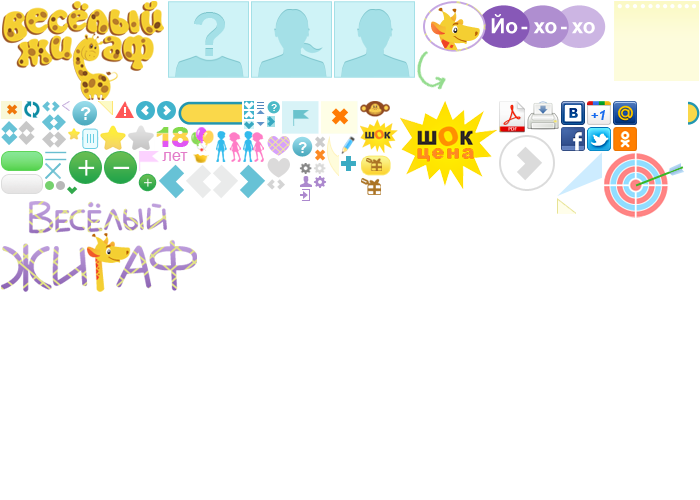
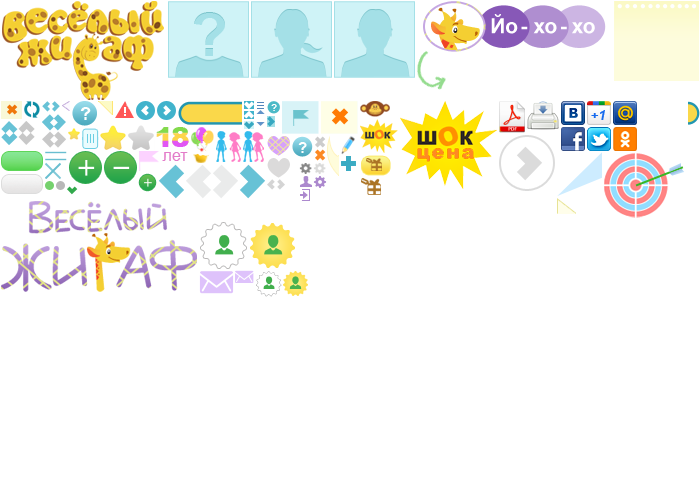
правки, соц кнопки, кнопки юзера

Changed region(s): [[0.27, 0.45, 0.45, 0.6]]

diff --git a/site/frontend/www/stylesheets/common.css b/site/frontend/www/stylesheets/common.css
@@ -117,6 +117,16 @@ a.info {display:inline-block;width:13px;height:13px;background:url(../images/com
 
 .ava img {display:block;}
 
+.user-fast-buttons {padding-top:2px;}
+.user-fast-buttons a {display:block;float:left;position:relative;margin-right:4px;text-decoration:none;}
+.user-fast-buttons a .tip {display:block;position:absolute;top:100%;white-space:nowrap;background:#fff8b4;color:#7e7d7d;padding:4px 10px;border:1px solid #fdef6c;display:none;}
+.user-fast-buttons a .tip {/*css3*/ -moz-border-radius:5px;-webkit-border-radius:5px;border-radius:5px;margin-top:3px;}
+.user-fast-buttons a:hover .tip {display:block;}
+.user-fast-buttons .add-friend {width:26px;height:26px;background:url(/images/common.png) no-repeat -256px -271px;}
+.user-fast-buttons .remove-friend {width:26px;height:26px;background:url(/images/common.png) no-repeat -283px -271px;}
+.user-fast-buttons .add-friend .tip, #user .header .user-buttons .remove-friend  .tip {right:50%;}
+.user-fast-buttons .new-message {width:19px;height:14px;background:url(/images/common.png) no-repeat -235px -270px;margin-top:5px;}
+.user-fast-buttons .new-message .tip {left:50%;margin-top:10px;}
 
 .icon-status {display:inline-block;width:11px;height:11px;background:url(../images/common.png) no-repeat;position:relative;top:1px;margin-right:5px;}
 .icon-status.status-online {background-position:-44px -180px;}
@@ -1286,13 +1296,13 @@ div.scrollbarpaper-drag {/*css3*/ -moz-border-radius:3px;-webkit-border-radius:3
 .default-comments ul {padding-top:10px;list-style:none;}
 .default-comments li {padding:10px;}
 .default-comments li.even {background:#f6fdfe;}
-.default-comments li .user {float:left;font:11px tahoma, arial, sans-serif;line-height:normal;max-width:190px;overflow:hidden;}
+.default-comments li .user {float:left;font:11px tahoma, arial, sans-serif;line-height:normal;max-width:190px;}
 .default-comments li .user .ava {float:left;margin-right:8px;}
 .default-comments li .user .ava img {display:block;border:1px solid #dddddd;}
 .default-comments li .user .details {margin-left:90px;}
 .default-comments li .user .details .flag {display:inline-block;position:relative;top:1px;}
 .default-comments li .user .details .location {font-size:9px;margin:5px 0;}
-.default-comments li .user .details .username {vertical-align:top;width:80px;margin:0;padding:0;}
+.default-comments li .user .details .username {vertical-align:top;width:80px;margin:0;padding:0;overflow:hidden;}
 .default-comments li .user a {text-decoration:none;}
 .default-comments li .content {margin-left:200px;font-size:12px;}
 .default-comments li .content p {color:#3f3e3e;margin:5px 0;}

diff --git a/site/frontend/www/html/social/user/user_blog.html b/site/frontend/www/html/social/user/user_blog.html
@@ -74,7 +74,11 @@
 							<span class="icon-status status-online"></span>
 							<a href="" class="username">Александр Богоявленский</a><br/>
 							<div class="location"><div class="flag flag-ru"></div>Гаврилов-Ям</div>
-							<div class="birthday"><span>Д.р.</span> 15 декабря (39 лет)</div>
+							<div class="user-fast-buttons clearfix">
+								<a href="" class="add-friend"><span class="tip">Пригласить в друзья</span></a>
+								<a href="" class="remove-friend"><span class="tip">Удалить из друзей</span></a>
+								<a href="" class="new-message"><span class="tip">Написать сообщение</span></a>
+							</div>
 						</div>
 					</div>
 					
@@ -125,13 +129,20 @@
 												
 						<div class="entry entry-full">
 			
-							<div class="entry-header">
+							<div class="entry-header clearfix">
 								<h1>Как выбрать детскую кроватку?</h1>
-								<div class="user">
+								<div class="user clearfix">
 									<div class="ava female	avatar">
 										<img src="/images/ava.png" />
 									</div>
-									<a class="username"><span class="icon-status status-online"></span>Александр<br/>Богоявленский</a>
+									<div class="details">
+										<a class="username"><span class="icon-status status-online"></span>Александр<br/>Богоявленский</a>
+										<div class="user-fast-buttons clearfix">
+											<a href="" class="add-friend"><span class="tip">Пригласить в друзья</span></a>
+											<a href="" class="remove-friend"><span class="tip">Удалить из друзей</span></a>
+											<a href="" class="new-message"><span class="tip">Написать сообщение</span></a>
+										</div>
+									</div>
 								</div>
 							
 								<div class="meta">
@@ -252,6 +263,11 @@
 												<div class="location">
 													<div class="flag flag-ru"></div>
 													Гаврилов-Ям
+												</div>
+												<div class="user-fast-buttons clearfix">
+													<a href="" class="add-friend"><span class="tip">Пригласить в друзья</span></a>
+													<a href="" class="remove-friend"><span class="tip">Удалить из друзей</span></a>
+													<a href="" class="new-message"><span class="tip">Написать сообщение</span></a>
 												</div>
 											</div>
 										</div>

diff --git a/site/frontend/www/stylesheets/user.css b/site/frontend/www/stylesheets/user.css
@@ -19,6 +19,17 @@
 #user .header .user-name .online-status.offline .icon {background-position:-55px -180px;}
 #user .header .user-name .online-status .date {font-size:9px;color:#a6a6a6;background:#fffeea;padding:0 5px;}
 
+#user .header .user-buttons {margin-left:260px;position:relative;top:5px;width:150px;}
+#user .header .user-buttons a {display:block;float:left;position:relative;margin-right:6px;text-decoration:none;}
+#user .header .user-buttons a .tip {display:block;position:absolute;top:100%;white-space:nowrap;background:#fff8b4;color:#7e7d7d;padding:4px 10px;border:1px solid #fdef6c;display:none;}
+#user .header .user-buttons a .tip {/*css3*/ -moz-border-radius:5px;-webkit-border-radius:5px;border-radius:5px;margin-top:3px;}
+#user .header .user-buttons a:hover .tip {display:block;}
+#user .header .user-buttons .add-friend {width:47px;height:47px;background:url(/images/common.png) no-repeat -200px -222px;}
+#user .header .user-buttons .remove-friend {width:47px;height:47px;background:url(/images/common.png) no-repeat -249px -222px;}
+#user .header .user-buttons .add-friend .tip, #user .header .user-buttons .remove-friend  .tip {right:50%;}
+#user .header .user-buttons .new-message {width:33px;height:23px;background:url(/images/common.png) no-repeat -200px -271px;margin-top:12px;}
+#user .header .user-buttons .new-message .tip {left:50%;margin-top:15px;}
+
 #user .header .user-fast {font-size:9px;line-height:12px;float:left;}
 #user .header .user-fast .ava {float:left;}
 #user .header .user-fast .details {width:130px;margin-left:90px;}

diff --git a/site/frontend/www/stylesheets/baby.css b/site/frontend/www/stylesheets/baby.css
@@ -619,7 +619,7 @@
 
 /*===== Baby handbook illness recipes =====*/
 #baby .baby_recipes_service {display:block;height:296px;background: url(../images/service_recipes_illness.jpg) 0 0 no-repeat;position:relative;margin:0 0 0px 0;}
-#baby .baby_recipes_service ul.handbook_changes_u {position:absolute;bottom:0px;left:200px;}
+#baby .baby_recipes_service ul.handbook_changes_u {position:absolute;bottom:0px;left:200px;list-style:none;}
 #baby .baby_recipes_service ul.handbook_changes_u li {float:left;margin:0 3px 0 0;}
 #baby .baby_recipes_service ul.handbook_changes_u li a {display:inline-block;padding:0 25px;font:18px/60px tahoma, sans-serif;color:#fff;text-decoration:none;background: url(../images/vio_transparent.png) 0 0 repeat;border-radius:10px 10px 0 0;-moz-border-radius:10px 10px 0 0;-webkit-border-radius:10px 10px 0 0;}
 #baby .baby_recipes_service ul.handbook_changes_u li a span {display:inline-block;padding:0 20px 0 0;background: url(../images/down_wh_arr.png) 100% 27px no-repeat;}

diff --git a/site/frontend/www/html/social/user/user_profile_social_a.html b/site/frontend/www/html/social/user/user_profile_social_a.html
@@ -124,7 +124,20 @@
 										<li>
 											<div class="line-title">Одноклассники</div>
 											<a class="auth-link odnoklassniki" href=""><span class="auth-icon odnoklassniki"><i></i></span></a>
-										</li>										
+										</li>
+										<li>
+											<div class="line-title">Google</div>
+											<a class="auth-link vkontakte" href=""><span class="auth-icon google"><i></i></span></a>
+										</li>
+										<li>
+											<div class="line-title">Facebook</div>
+											<a class="auth-link mailru" href=""><span class="auth-icon facebook"><i></i></span></a>
+										</li>
+										<li>
+											<div class="line-title">Twitter</div>
+											<a class="auth-link odnoklassniki" href=""><span class="auth-icon twitter"><i></i></span></a>
+										</li>
+										
 									</ul>
 								</div>
 								

diff --git a/site/frontend/www/html/social/user/user.html b/site/frontend/www/html/social/user/user.html
@@ -66,10 +66,17 @@
 			<div id="user">
 				
 				<div class="header clearfix">
+					
 					<div class="user-name">
 						<h1>Богоявленский<br/>Александр</h1>
 						<div class="online-status online"><i class="icon"></i>Сейчас на сайте</div>
 						<div class="online-status offline"><i class="icon"></i>Был на сайте <span class="date">20 февраля 2012, 14:25</span></div>
+					</div>
+					
+					<div class="user-buttons clearfix">
+						<a href="" class="add-friend"><span class="tip">Пригласить в друзья</span></a>
+						<a href="" class="remove-friend"><span class="tip">Удалить из друзей</span></a>
+						<a href="" class="new-message"><span class="tip">Написать сообщение</span></a>
 					</div>
 					
 					<div class="user-nav">

diff --git a/site/frontend/www/stylesheets/profile.css b/site/frontend/www/stylesheets/profile.css
@@ -51,6 +51,9 @@
 #profile .auth-link .auth-icon.vkontakte {background-position:0 0;}
 #profile .auth-link .auth-icon.mailru {background-position:0 -34px;}
 #profile .auth-link .auth-icon.odnoklassniki {background-position:0 -68px;}
+#profile .auth-link .auth-icon.google {background-position:0 -102px;}
+#profile .auth-link .auth-icon.facebook {background-position:0 -136px;}
+#profile .auth-link .auth-icon.twitter {background-position:0 -170px;}
 
 #profile .row {padding-bottom:15px;font-family:tahoma;color:#878787;font-size:11px;line-height:normal;}
 #profile .row .row-title {font-size:16px;color:#4c4d4d;margin-bottom:5px;}

diff --git a/site/frontend/www/stylesheets/global.css b/site/frontend/www/stylesheets/global.css
@@ -32,6 +32,7 @@ html > body .page {
 ul.topmenu, .kon_menu, .leftlist {
     display: list-item;
     list-style-image: none;
+	list-style:none;
 }
 
 body > .page {
@@ -588,14 +589,17 @@ p {
 
 
 .user {
-    /*float: left;*/
-    width: auto;
+    float: left;
+    width: auto;	
 }
 
 .user .avatar, .user .ava {
     float: left;
     display: inline-block;
+	margin-right:8px;
 }
+
+.user .details {margin-left:90px;width:100px;}
 
 .user a.username {
     display: inline-block;
